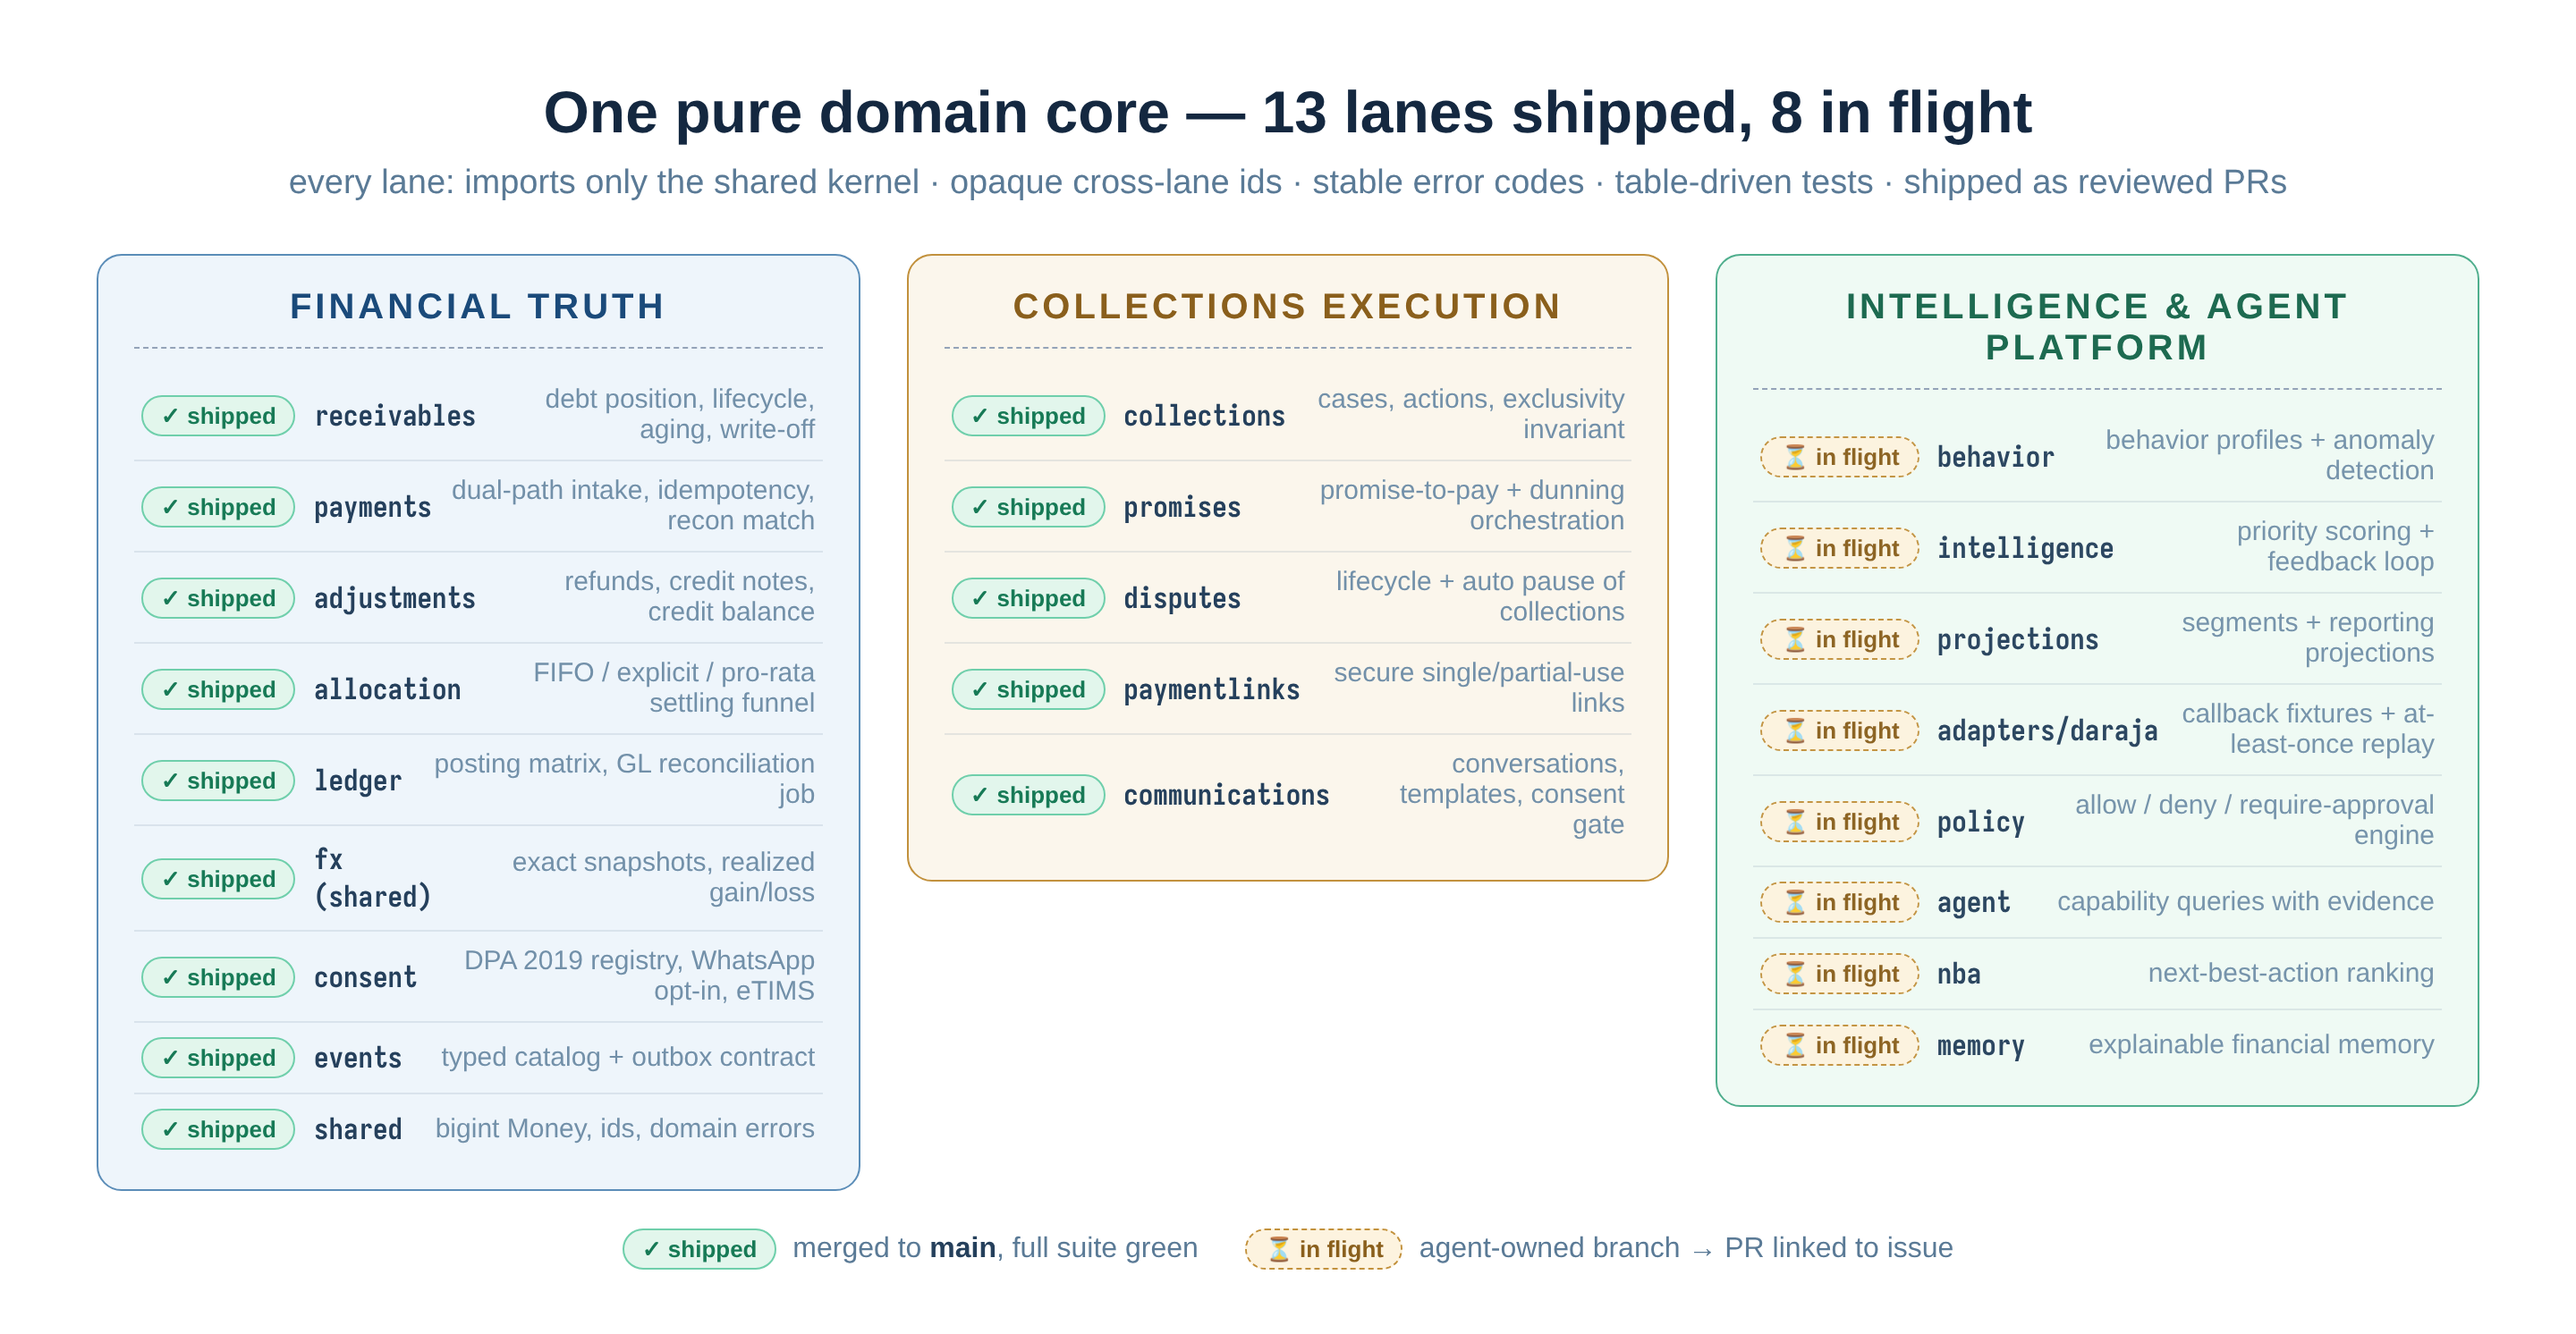
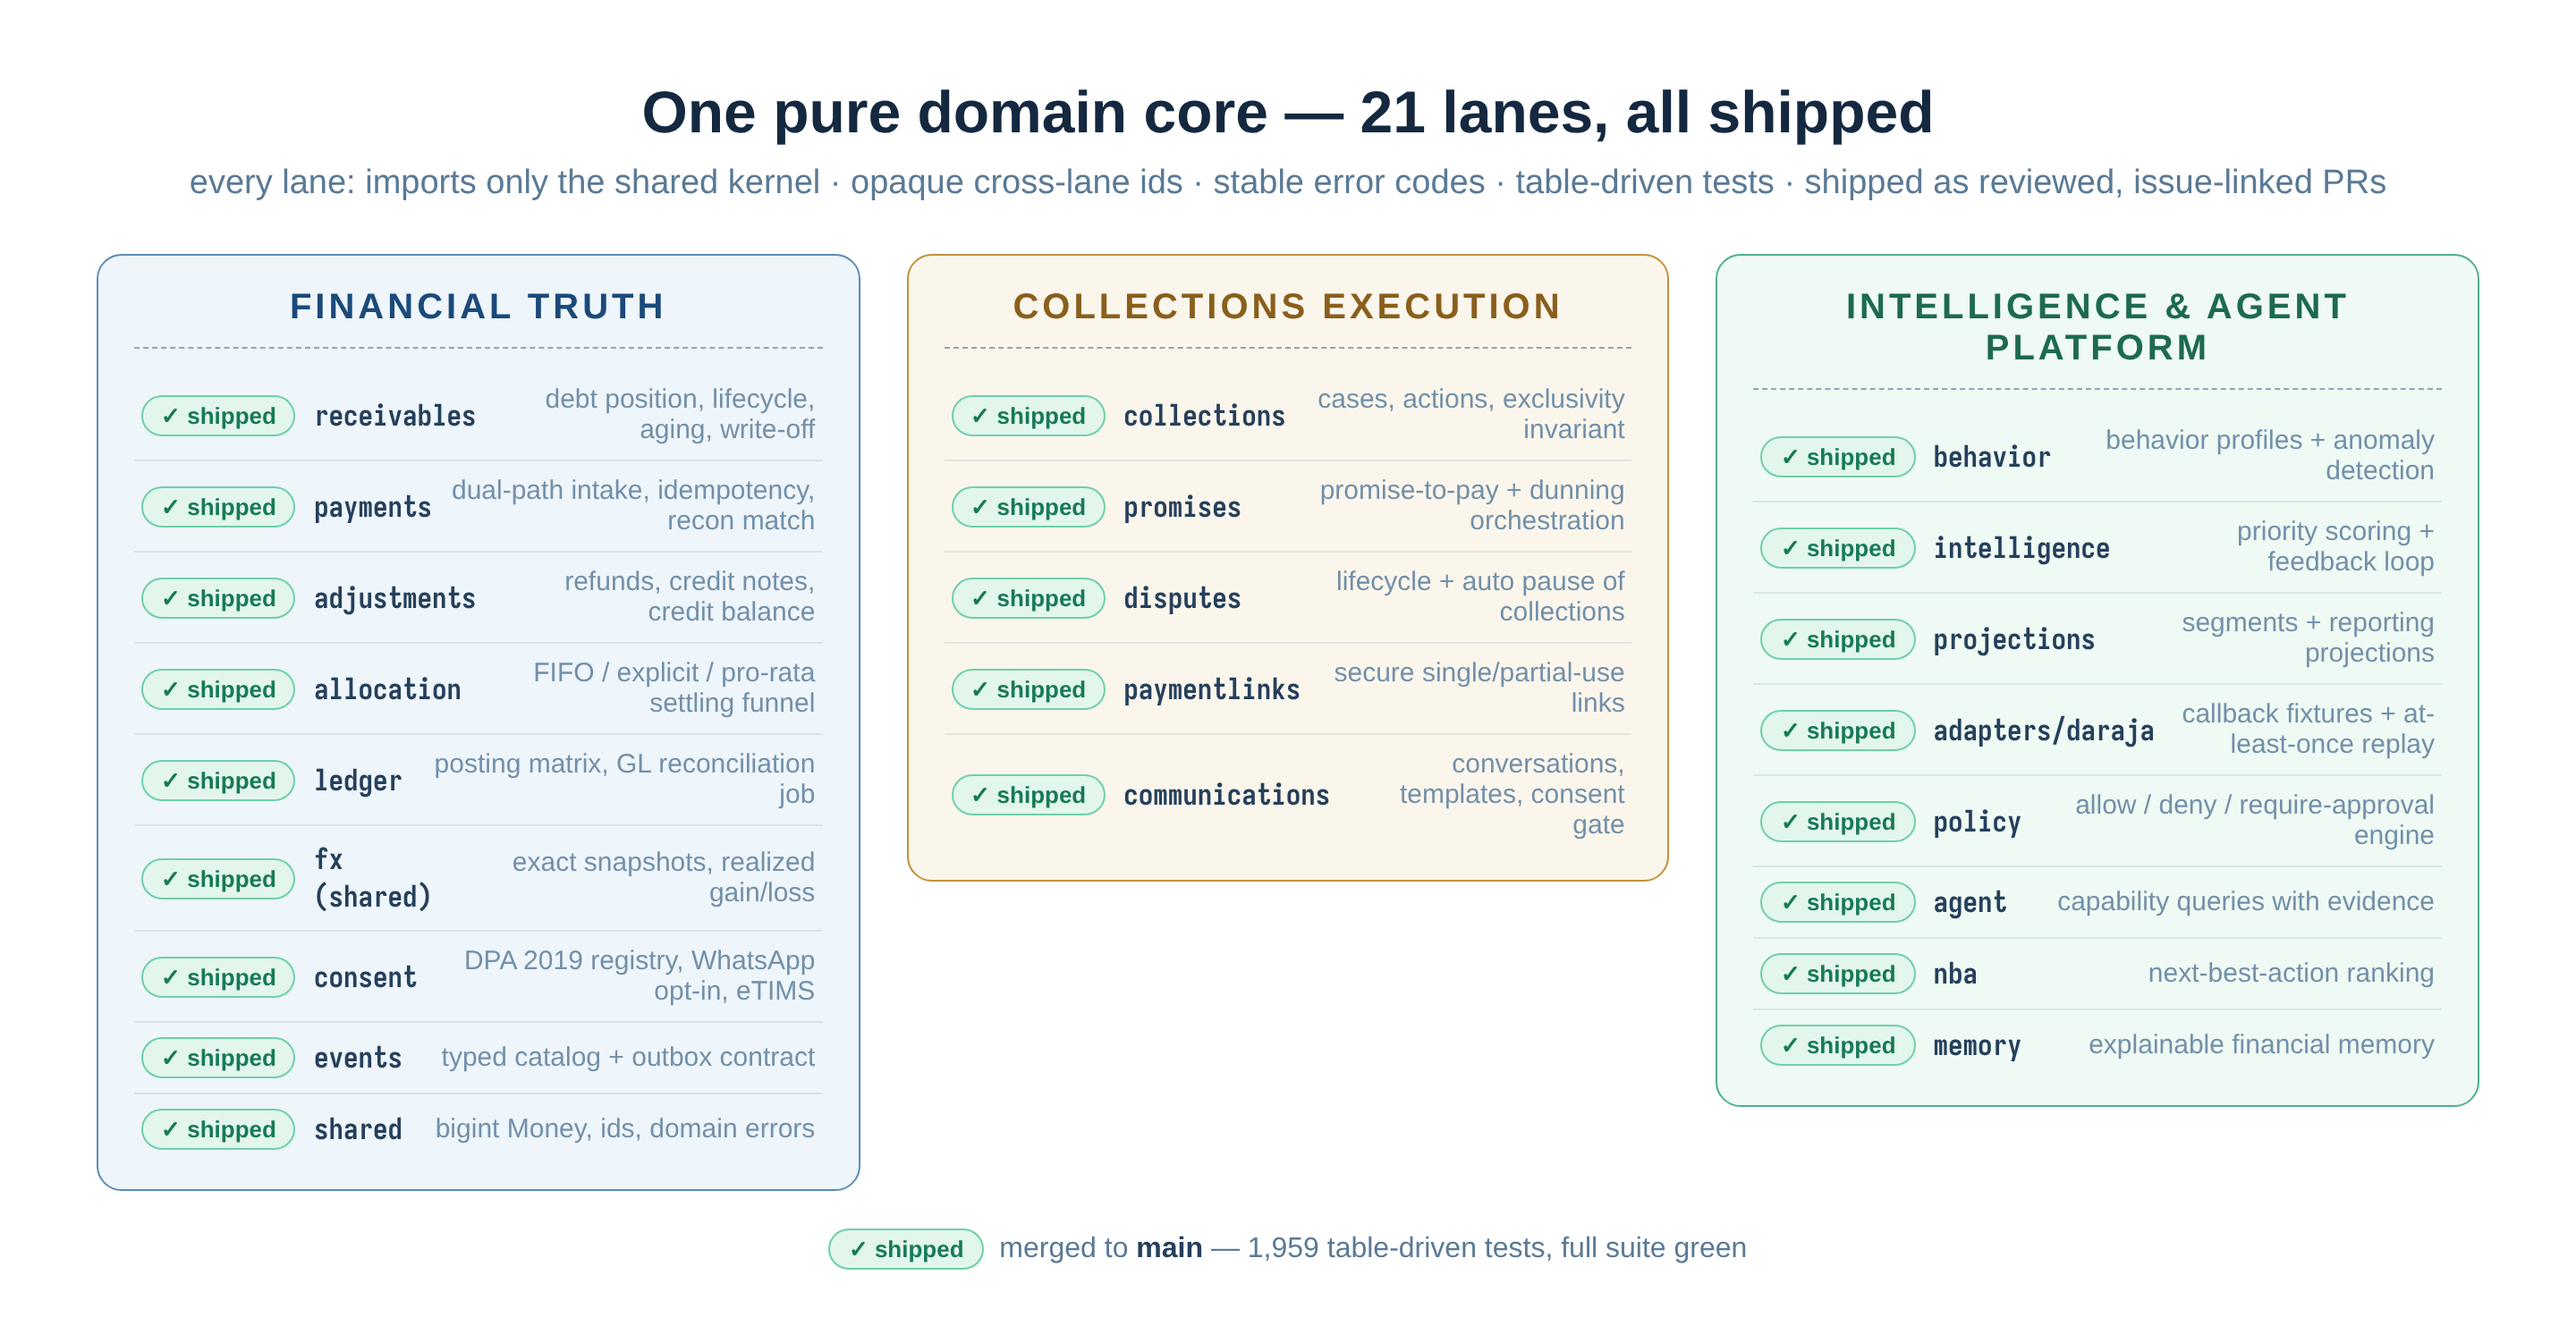
docs: waves 4+5 complete — all 23 backlog features merged; 1,959 tests / 77 suites
- BACKLOG: F13-F15, F19 (wave 4) and F20-F23 (wave 5) marked done with PR refs;
  completion notes for both waves.
- README + lanes image: all 21 lanes shipped, roadmap waves 4-5 merged,
  test badge 1,959.

diff --git a/docs/BACKLOG.md b/docs/BACKLOG.md
@@ -21,14 +21,14 @@ Update `Status` as work lands; PRs must reference the issue so it auto-closes.
 | F16 | Disputes lifecycle — pause collections while disputed (SPEC §29) | 3 | #20 | **done** (PR #27) | Disputed receivable pauses automated dunning; resolution resumes |
 | F17 | Payment links — single/partial-use links with lifecycle (SPEC §28) | 3 | #21 | **done** (PR #30) | Token redemption bounds enforced; single-use rejected twice |
 | F18 | Communications domain — conversations, messages, delivery attempts, templates (SPEC §26) | 3 | #22 | **done** (PR #32) | Consent-before-send; versioned templates; retry → dead-letter |
-| F13 | Collections priority scoring + recommendation feedback loop (H7) | 4 | #23 | pending | Read-only over events; outcome feedback recorded; explainable |
-| F14 | Segment strategies + reporting projections (SPEC §19/§20/§66) | 4 | #24 | pending | Projections only; no fund-truth writes; predictions labeled |
-| F15 | Daraja adapter conformance suite (callback fixtures, at-least-once replay) | 4 | #25 | pending | Fixture replay is idempotent end-to-end |
-| F19 | Customer behavior profiles + anomaly detection (SPEC §4/§24) | 4 | #26 | pending | Metrics fixture-tested; explainable anomaly events |
-| F20 | Policy engine — deterministic allow/deny/require-approval governance for automated actions (VISION §3.9) | 5 | #34 | pending | Every automated action evaluated; refusals carry machine-readable reasons + audit events |
-| F21 | Agent capability layer — financial-state projection, receivables priorities, collections recommendations (VISION §3.8) | 5 | #35 | pending | Capability queries (not CRUD); every answer carries evidence refs; no fund-truth writes |
-| F22 | Next-best-action engine — explainable action selection with cost/benefit + policy filter (VISION §3.4) | 5 | #36 | pending | Ranks actions with reasons; policy-gated; "do nothing" representable; feedback hook |
-| F23 | Explainable financial memory — event-derived behavioral features with evidence trail (VISION §3.3/§3.7) | 5 | #37 | pending | Cadence/reliability/channel/exposure projections; every claim traceable to events |
+| F13 | Collections priority scoring + recommendation feedback loop (H7) | 4 | #23 | **done** (PR #38) | Read-only over events; outcome feedback recorded; explainable |
+| F14 | Segment strategies + reporting projections (SPEC §19/§20/§66) | 4 | #24 | **done** (PR #39) | Projections only; no fund-truth writes; predictions labeled |
+| F15 | Daraja adapter conformance suite (callback fixtures, at-least-once replay) | 4 | #25 | **done** (PR #45) | Fixture replay is idempotent end-to-end |
+| F19 | Customer behavior profiles + anomaly detection (SPEC §4/§24) | 4 | #26 | **done** (PR #40) | Metrics fixture-tested; explainable anomaly events |
+| F20 | Policy engine — deterministic allow/deny/require-approval governance for automated actions (VISION §3.9) | 5 | #34 | **done** (PR #41) | Every automated action evaluated; refusals carry machine-readable reasons + audit events |
+| F21 | Agent capability layer — financial-state projection, receivables priorities, collections recommendations (VISION §3.8) | 5 | #35 | **done** (PR #44) | Capability queries (not CRUD); every answer carries evidence refs; no fund-truth writes |
+| F22 | Next-best-action engine — explainable action selection with cost/benefit + policy filter (VISION §3.4) | 5 | #36 | **done** (PR #42) | Ranks actions with reasons; policy-gated; "do nothing" representable; feedback hook |
+| F23 | Explainable financial memory — event-derived behavioral features with evidence trail (VISION §3.3/§3.7) | 5 | #37 | **done** (PR #43) | Cadence/reliability/channel/exposure projections; every claim traceable to events |
 
 **Dispatch rule:** a feature enters *in-progress* only when an agent owns its module lane
 (no cross-module imports); wave N+1 starts after its dependencies merged to `main`.
@@ -100,3 +100,10 @@ finance, field/offline mobile, USSD APIs, developer platform (§53), auth/RBAC b
 **Wave-3 progress note (2026-09-03):** first dispatch delivered F9 (#28), F11 (#29), F16 (#27); five agents hit runtime limits, four re-dispatched (F8, F12, F17, F18). GitHub Actions runners were failing repo-wide (job startup `BlobNotFound`, including pre-existing main pushes) — local `typecheck + full suite` on Node 24 used as the verification gate for merges.
 
 **Wave-3 dispatch — COMPLETE (merged 2026-09-03):** PR #30 payment links (#21), PR #31 collections cases (#8), PR #32 communications (#22), PR #33 promises+dunning (#19), plus earlier PR #27 disputes (#20), PR #28 FX (#9), PR #29 ledger (#18). Combined main: 1044/1044 tests green (Node 24.19, typecheck clean).
+
+**Wave-4 dispatch — COMPLETE (merged 2026-09-03):** PR #38 collections intelligence (#23, +76 tests), PR #39 projections (#24, +184), PR #40 behavior profiles (#26, +98), PR #45 daraja conformance (#25, +37). Four agents hit runtime limits mid-run; the dispatcher audited/completed the interrupted drafts and verified every lane locally before merge.
+
+**Wave-5 dispatch — agent-ready platform — COMPLETE (merged 2026-09-03):** PR #41 policy engine (#34, +214 tests), PR #42 next-best-action (#36, +67), PR #43 financial memory (#37, +130), PR #44 agent capabilities (#35, +109). Same pattern: subagent infra timeouts interrupted the first pass; the dispatcher completed and verified the lanes (fixing draft defects — scorer-bar misalignments in agent-lane specs, world/record contract break in the daraja simulator, branded-Uuid reconciliation types) before opening/merging each PR.
+
+**Combined main after waves 4–5: 1959/1959 tests across 77 suites, typecheck clean (Node 24.19).**
+All 23 backlog features (F1–F23) are now merged. Remaining deferrals are deliberate (SPEC §2/§33/§34/§35): HTTP/API transport + auth, cross-border payments, embedded finance, field/offline mobile, USSD, developer platform — the domain core is complete and the API layer can now be built on top of it.

diff --git a/README.md b/README.md
@@ -3,7 +3,7 @@
 <img src="docs/assets/readme/hero.png" alt="Fuatilia — receivables intelligence & collections infrastructure for African businesses" width="100%"/>
 
 [![CI](https://github.com/Roy-Wanyoike/fuatilia/actions/workflows/ci.yml/badge.svg)](https://github.com/Roy-Wanyoike/fuatilia/actions/workflows/ci.yml)
-![tests](https://img.shields.io/badge/domain%20tests-1%2C044%20passing-2fbf8f)
+![tests](https://img.shields.io/badge/domain%20tests-1%2C959%20passing-2fbf8f)
 ![typescript](https://img.shields.io/badge/TypeScript-strict-2d7ab3)
 ![node](https://img.shields.io/badge/node-%E2%89%A522-5b8db8)
 [![License: MIT](https://img.shields.io/badge/license-MIT-c2913d)](LICENSE)
@@ -78,7 +78,7 @@ move money.
 | | `disputes` | Dispute lifecycle that automatically pauses collections, resume on resolution |
 | | `paymentlinks` | Secure single/partial-use payment links with bounded redemption |
 | | `communications` | Conversations, immutable template versions, retry → dead-letter, consent gate |
-| **Intelligence & Agent Platform** *(in flight)* | `behavior` | Customer behavior profiles + explainable anomaly detection |
+| **Intelligence & Agent Platform** | `behavior` | Customer behavior profiles + explainable anomaly detection |
 | | `intelligence` | Collections priority scoring + recommendation feedback loop |
 | | `projections` | Segment strategies + reporting projections (always labeled, never balances) |
 | | `adapters/daraja` | Callback conformance suite — fixtures + at-least-once replay |
@@ -115,7 +115,7 @@ npm run typecheck   # strict TypeScript
 npm test            # full domain suite
 ```
 
-**1,044 tests across 44 suites** (and growing every wave), all green on Node 24 before any merge.
+**1,959 tests across 77 suites**, all green on Node 24 before any merge.
 Domain tests are pure — the whole suite runs in seconds with no mocks of infrastructure,
 because there is no infrastructure to mock.
 
@@ -161,9 +161,9 @@ Requires Node ≥ 22.
 | 1 | Fund truth: receivables, payments, adjustments | ✅ merged |
 | 2 | Allocation engine, event catalog, late fees + plans, consent/eTIMS | ✅ merged |
 | 3 | Collections ops: cases, ledger, FX, promises/dunning, disputes, links, comms | ✅ merged |
-| 4 | Intelligence: priority scoring, projections, Daraja conformance, behavior profiles | 🔄 in flight |
-| 5 | Agent-ready platform: policy engine, agent capabilities, next-best-action, financial memory | 🔄 in flight |
-| 6 | HTTP/API transport + auth (after the domain is complete) | ⏳ deliberate deferral |
+| 4 | Intelligence: priority scoring, projections, Daraja conformance, behavior profiles | ✅ merged |
+| 5 | Agent-ready platform: policy engine, agent capabilities, next-best-action, financial memory | ✅ merged |
+| 6 | HTTP/API transport + auth (the domain core is complete — this is next) | ⏳ deliberate deferral |
 
 ## Ecosystem
 
